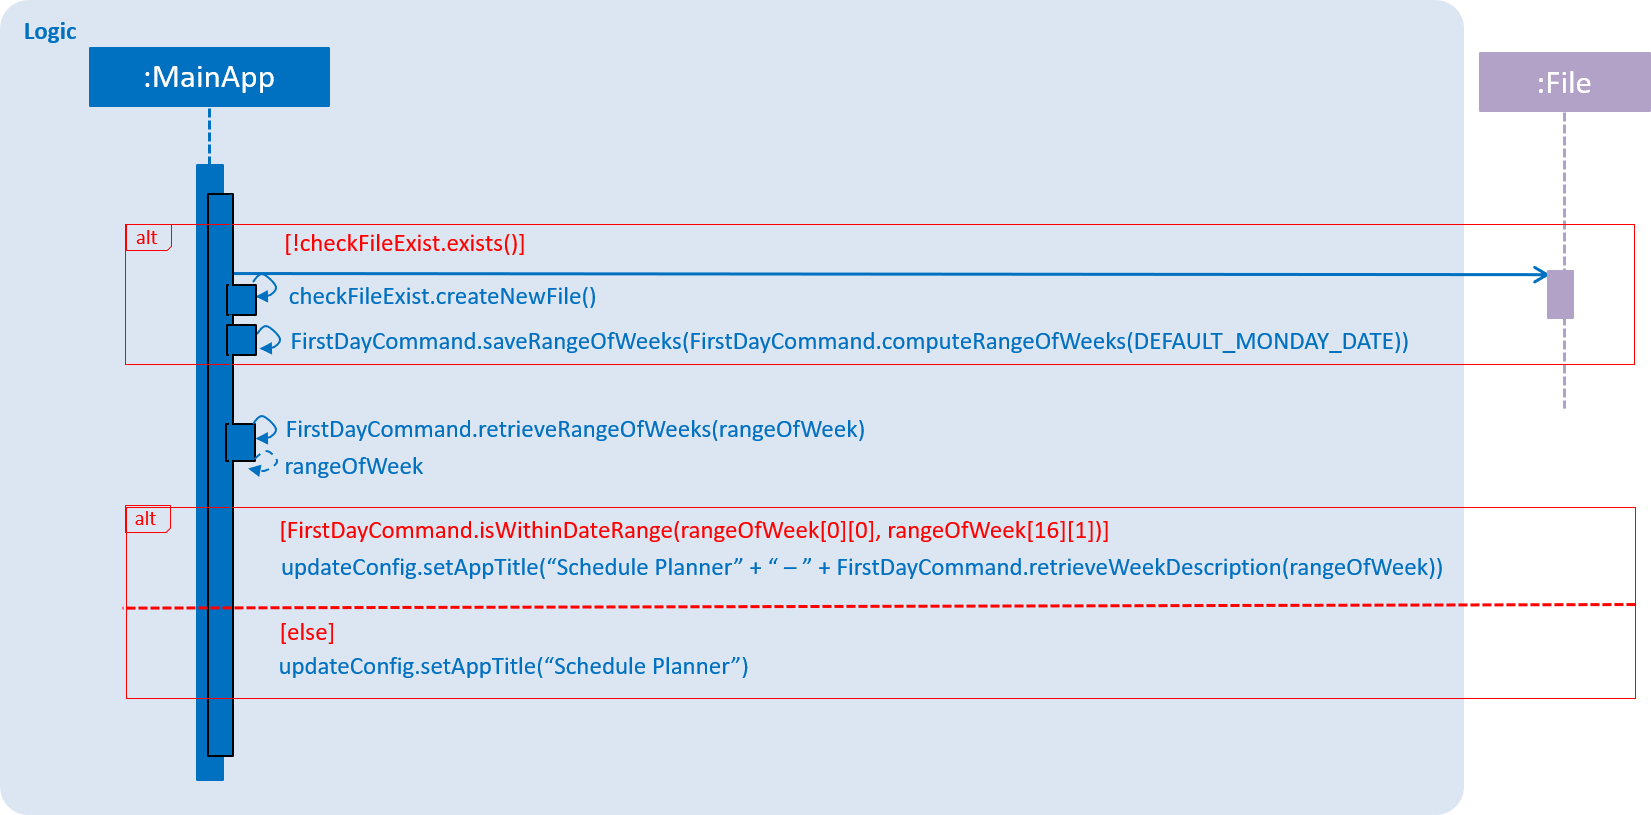
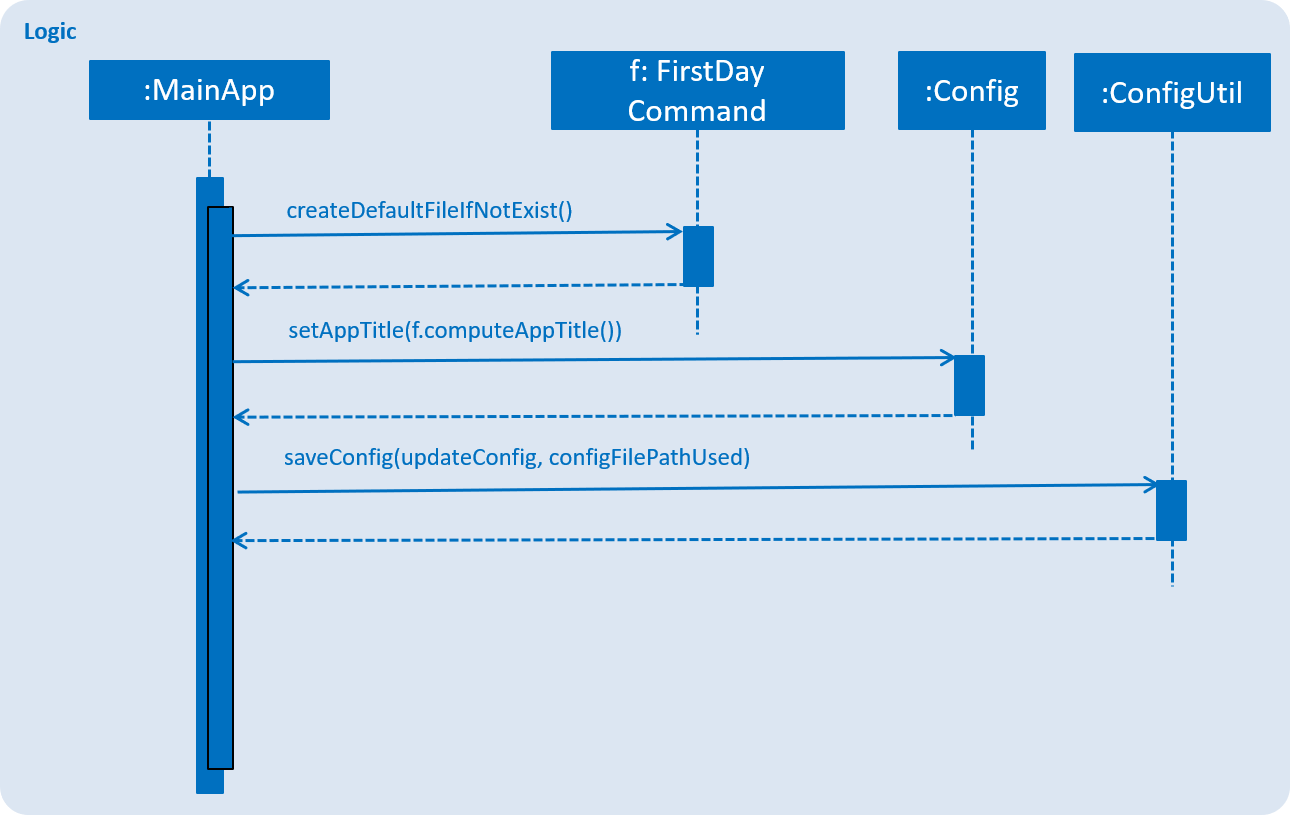
Rebuild pages at 71877509cb2c0853b336152cfc5f9d35883b7db3

Changed region(s): [[0.062, 0.0, 1.0, 1.0], [0.0, 0.0307, 0.2791, 0.1534]]

diff --git a/DeveloperGuide.html b/DeveloperGuide.html
@@ -955,7 +955,7 @@ from the current date till the closest Sunday.</p>
 <div class="ulist">
 <ul>
 <li>
-<p><code>Model#updateFilteredTaskList()</code> takes in a predicate parameter and updates the model
+<p><code>Model#updateFilteredTaskList()</code>&#8201;&#8212;&#8201;Takes in a predicate parameter and updates the model
 according to the predicate.</p>
 </li>
 </ul>
@@ -982,8 +982,9 @@ Given below is an example usage scenario and how <code>listweek</code> mechanism
 <p>Step 1. The user entered the command <code>listweek</code>.</p>
 </div>
 <div class="paragraph">
-<p>Step 2. <code>ListWeekCommand#appendDateList(datelist, numDaysTillSunday(dateName))</code> will generate the <code>dateList</code> in
-<code>ddmmyy</code> format after retrieving the result from <code>numDaysTillSunday()</code> method.</p>
+<p>Step 2. <code>ListWeekCommand#appendDateList(datelist, numDaysTillSunday(dateName))</code> will generate the <code>dateList</code>, which
+is a <code>list</code> of dates in <code>ddmmyy</code> format after retrieving the result from <code>numDaysTillSunday()</code> method.
+<code>numDaysTillSunday()</code> method itself will compute the number of days from current date till Sunday based on <code>dateName</code>.</p>
 </div>
 <div class="paragraph">
 <p>Step 3. <code>model.updateFilteredTaskList()</code> will update the task list with <code>DateWeekSamePredicate</code>
@@ -999,6 +1000,7 @@ as the parameter. <code>DateWeekSamePredicate</code> itself would take <code>dat
 <div class="content">
 <img src="images/ListWeekCommand_DG_SequenceDiagram.png" alt="ListWeekCommand DG SequenceDiagram" width="800">
 </div>
+<div class="title">Figure 10. Sequence Diagram of ListWeek Command</div>
 </div>
 </div>
 <div class="sect3">
@@ -1021,7 +1023,8 @@ as the parameter. <code>DateWeekSamePredicate</code> itself would take <code>dat
 </div>
 </li>
 <li>
-<p><strong>Alternative 2:</strong> Allow the commands to receive argument for which date(s) to filter.</p>
+<p><strong>Alternative 2:</strong> Allow the commands to receive argument for which date(s) to filter.
+E.g listday 130818 to view all tasks for 13 August 2018.</p>
 <div class="ulist">
 <ul>
 <li>
@@ -1041,12 +1044,13 @@ as the parameter. <code>DateWeekSamePredicate</code> itself would take <code>dat
 <div class="sect2">
 <h3 id="generate-academic-calendar-weeks"><a class="link" href="#generate-academic-calendar-weeks">4.6. Generate academic calendar weeks</a></h3>
 <div class="paragraph">
-<p>In order to enable users to better monitor their tasks in the schedule planner, we added <code>firstday</code> command.</p>
+<p>In order to enable users to better monitor their tasks in the schedule planner by knowing what is the current
+academic week, we added <code>firstday</code> command.</p>
 </div>
 <div class="paragraph">
 <p>The <code>firstday</code> command will generate the weeks according to the NUS academic calendar, and will append the week
-number to the application title  whenever the user launches the application to allow user to know the current
-academic week.</p>
+number to the application title if the user launches the application within the academic calendar dates.
+This allows the user to know the current academic week.</p>
 </div>
 <div class="sect3">
 <h4 id="current-implementation-3"><a class="link" href="#current-implementation-3">4.6.1. Current Implementation</a></h4>
@@ -1060,24 +1064,31 @@ academic week.</p>
 <code>firstDayOfSem</code> and <code>lastDayOfSem</code> and return true or false.</p>
 </li>
 <li>
-<p><code>FirstDayCommand#retrieveWeekDescription(rangeOfWeek)</code>&#8201;&#8212;&#8201;Return the description of a particular week</p>
+<p><code>FirstDayCommand#retrieveWeekDescription(rangeOfWeek)</code>&#8201;&#8212;&#8201;It return the description of a particular week</p>
 </li>
 <li>
-<p><code>FirstDayCommand#saveRangeOfWeeks(rangeOfWeek)</code>&#8201;&#8212;&#8201;Save the academic calendar weeks data into <code>rangeOfWeek.xml</code></p>
+<p><code>FirstDayCommand#saveRangeOfWeeks(rangeOfWeek)</code>&#8201;&#8212;&#8201;It save the academic calendar weeks data into <code>rangeofweek.xml</code></p>
 </li>
 <li>
-<p><code>FirstDayCommand#retrieveRangeOfWeeks(storeRangeOfWeeks)</code>&#8201;&#8212;&#8201;Retrieved the saved academic calendar weeks data from
-<code>rangeOfWeek.xml</code></p>
+<p><code>FirstDayCommand#retrieveRangeOfWeeks(storeRangeOfWeeks)</code>&#8201;&#8212;&#8201;It retrieves the saved academic calendar weeks data from
+<code>rangeofweek.xml</code></p>
 </li>
 <li>
-<p><code>FirstDayCommand#computeRangeOfWeek(firstDay)</code>&#8201;&#8212;&#8201;Generate the academic calendar weeks data based on the <code>firstDay</code>
+<p><code>FirstDayCommand#computeRangeOfWeek(firstDay)</code>&#8201;&#8212;&#8201;It generate the academic calendar weeks data based on the <code>firstDay</code>
 parameter.</p>
 </li>
 <li>
-<p><code>FirstDayCommand#addDescription</code>&#8201;&#8212;&#8201;Append description for each academic calendar weeks.</p>
+<p><code>FirstDayCommand#addDescription</code>&#8201;&#8212;&#8201;It appends description for each academic calendar weeks.</p>
 </li>
 <li>
-<p><code>FirstDayCommand#isMonday(inputDate)</code>&#8201;&#8212;&#8201;Check if inputDate is Monday and return true or false.</p>
+<p><code>FirstDayCommand#isMonday(inputDate)</code>&#8201;&#8212;&#8201;It checks if inputDate is Monday and return true or false.</p>
+</li>
+<li>
+<p><code>FirstDayCommand#computeAppTitle()</code>&#8201;&#8212;&#8201;It computes the corresponding application title after checking if current
+system date is within academic calendar dates.</p>
+</li>
+<li>
+<p><code>FirstDayCommand#createDefaultFileIfNotExist()</code>&#8201;&#8212;&#8201;It creates the default <code>rangeofweek.xml</code> if it does not exist.</p>
 </li>
 </ul>
 </div>
@@ -1092,8 +1103,9 @@ parameter.</p>
 remaining argument into <code>trimmedArgs</code>.</p>
 </div>
 <div class="paragraph">
-<p>Step 3. Methods <code>onlyOneSetArgument</code>, <code>Date.isValidDate</code> and <code>isMonday</code> are to be used to check if <code>trimmedArgs</code> is
-valid.</p>
+<p>Step 3. Methods <code>onlyOneSetArgument(trimmedArgs)</code>, <code>Date.isValidDate(trimmedArgs)</code> and <code>isMonday(trimmedArgs)</code> are used
+ in sequence to check if
+<code>trimmedArgs</code> is valid.</p>
 </div>
 <div class="admonitionblock note">
 <table>
@@ -1147,14 +1159,22 @@ weeks, the <code>UI</code> would display the corresponding week description to t
 </div>
 </div>
 <div class="paragraph">
-<p>Step 9. When user launch the application, <code>MainApp</code> will check if <code>rangeOfWeek.xml</code> exists. Should it be the first
-time user launch the application or if user deleted the file, it will create a default file that would not affect the
- user experiences.</p>
+<p>Step 9. When user launch the application,<code>MainApp</code> will create a <code>FirstDayCommand</code> object named <code>fdc</code> to utilise the
+method <code>FirstDayCommand#createDefaultFileIfNotExist</code>. The purpose is to check if <code>rangeOfWeek.xml</code> exists. Should it be the
+first time user launch the application or if user deleted the file, it will create a default file that would not
+affect the user experiences.</p>
 </div>
 <div class="paragraph">
-<p>If the file exist, <code>FirstDayCommand#retrieveRangeOfWeeks</code> will be called to retrieve the academic
- calendar weeks data from <code>rangeOfWeek.xml</code>. <code>FirstDayCommand#isWithinDateRange</code> would then be called to check if
- current system date lies within the academic calendar weeks and update the application title correspondly if necessary.</p>
+<p>Step 10. <code>MainApp</code> will create a <code>Config</code> object named as <code>updateConfig</code> and then calls the method <code>updateConfig.setAppTitle(fdc.computeAppTitle())</code>. <code>fdc.computeAppTitle()</code> would generate the corresponding application title by
+checking the current system date and the saved academic calendar weeks data. It would then return the result into
+<code>updateConfig.setAppTitle()</code> to update the application title.</p>
+</div>
+<div class="paragraph">
+<p><code>MainApp</code> then calls <code>ConfigUtil#saveConfig(updateConfig, configFilePathUsed)</code> to save the updated configuration into
+ the path where <code>config.json</code> is.</p>
+</div>
+<div class="paragraph">
+<p>Step 11. <code>MainApp</code> would then retrieve the application title from <code>config.json</code> and display on the <code>UI</code>.</p>
 </div>
 <div class="imageblock">
 <div class="content">
@@ -1181,11 +1201,13 @@ not exist.
 <div class="content">
 <img src="images/FirstDayCommand_DG_SequenceDiagram.png" alt="FirstDayCommand DG SequenceDiagram" width="800">
 </div>
+<div class="title">Figure 11. Sequence diagram of FirstDay Command</div>
 </div>
 <div class="imageblock">
 <div class="content">
 <img src="images/LaunchMainApp_DG_SequenceDiagram.png" alt="LaunchMainApp DG SequenceDiagram" width="800">
 </div>
+<div class="title">Figure 12. Sequence diagram of launching MainApp</div>
 </div>
 </div>
 <div class="sect3">
@@ -1386,7 +1408,7 @@ Alternatively, you can download the AsciiDoc plugin for IntelliJ, which allows y
 <div class="content">
 <img src="images/chrome_save_as_pdf.png" alt="chrome save as pdf" width="300">
 </div>
-<div class="title">Figure 10. Saving documentation as PDF files in Chrome</div>
+<div class="title">Figure 13. Saving documentation as PDF files in Chrome</div>
 </div>
 </div>
 <div class="sect2">
@@ -3298,4 +3320,4 @@ Expected: Similar to previous.</p>
 </div>
 </div>
 </div>
-</div></div><div id="footer"><div class="container"><div id="footer-text">Last updated 2018-10-31 04:39:27 UTC</div></div></div></body></html>
+</div></div><div id="footer"><div class="container"><div id="footer-text">Last updated 2018-10-31 10:34:53 UTC</div></div></div></body></html>

diff --git a/HelpWindow.html b/HelpWindow.html
@@ -918,4 +918,4 @@ There is no need to save manually.</p>
 <strong>A</strong>: Install the app in the other computer and overwrite the empty data file it creates with the file that contains the data of your previous Schedule planner folder.</p>
 </div>
 </div>
-</div></div><div id="footer"><div class="container"><div id="footer-text">Last updated 2018-10-31 04:39:27 UTC</div></div></div></body></html>
+</div></div><div id="footer"><div class="container"><div id="footer-text">Last updated 2018-10-31 10:34:53 UTC</div></div></div></body></html>

diff --git a/UserGuide.html b/UserGuide.html
@@ -918,4 +918,4 @@ There is no need to save manually.</p>
 <strong>A</strong>: Install the app in the other computer and overwrite the empty data file it creates with the file that contains the data of your previous Schedule planner folder.</p>
 </div>
 </div>
-</div></div><div id="footer"><div class="container"><div id="footer-text">Last updated 2018-10-31 04:39:27 UTC</div></div></div></body></html>
+</div></div><div id="footer"><div class="container"><div id="footer-text">Last updated 2018-10-31 10:34:53 UTC</div></div></div></body></html>

diff --git a/team/crimsonang.html b/team/crimsonang.html
@@ -779,4 +779,4 @@ pointing to the latest state in the <code>schedulePlannerStateList</code>, all s
 <p><em>{Optionally, you may include other projects in your portfolio.}</em></p>
 </div>
 </div>
-</div></div><div id="footer"><div class="container"><div id="footer-text">Last updated 2018-10-31 04:39:27 UTC</div></div></div></body></html>
+</div></div><div id="footer"><div class="container"><div id="footer-text">Last updated 2018-10-31 10:34:53 UTC</div></div></div></body></html>

diff --git a/team/hotarumin.html b/team/hotarumin.html
@@ -779,4 +779,4 @@ pointing to the latest state in the <code>schedulePlannerStateList</code>, all s
 <p><em>{Optionally, you may include other projects in your portfolio.}</em></p>
 </div>
 </div>
-</div></div><div id="footer"><div class="container"><div id="footer-text">Last updated 2018-10-31 04:39:27 UTC</div></div></div></body></html>
+</div></div><div id="footer"><div class="container"><div id="footer-text">Last updated 2018-10-31 10:34:53 UTC</div></div></div></body></html>

diff --git a/team/park-sang-jun.html b/team/park-sang-jun.html
@@ -779,4 +779,4 @@ pointing to the latest state in the <code>schedulePlannerStateList</code>, all s
 <p><em>{Optionally, you may include other projects in your portfolio.}</em></p>
 </div>
 </div>
-</div></div><div id="footer"><div class="container"><div id="footer-text">Last updated 2018-10-31 04:39:27 UTC</div></div></div></body></html>
+</div></div><div id="footer"><div class="container"><div id="footer-text">Last updated 2018-10-31 10:34:53 UTC</div></div></div></body></html>

diff --git a/team/thaddeuslzy.html b/team/thaddeuslzy.html
@@ -779,4 +779,4 @@ pointing to the latest state in the <code>schedulePlannerStateList</code>, all s
 <p><em>{Optionally, you may include other projects in your portfolio.}</em></p>
 </div>
 </div>
-</div></div><div id="footer"><div class="container"><div id="footer-text">Last updated 2018-10-31 04:39:27 UTC</div></div></div></body></html>
+</div></div><div id="footer"><div class="container"><div id="footer-text">Last updated 2018-10-31 10:34:53 UTC</div></div></div></body></html>

diff --git a/team/woodnsuns.html b/team/woodnsuns.html
@@ -779,4 +779,4 @@ pointing to the latest state in the <code>schedulePlannerStateList</code>, all s
 <p><em>{Optionally, you may include other projects in your portfolio.}</em></p>
 </div>
 </div>
-</div></div><div id="footer"><div class="container"><div id="footer-text">Last updated 2018-10-31 04:39:27 UTC</div></div></div></body></html>
+</div></div><div id="footer"><div class="container"><div id="footer-text">Last updated 2018-10-31 10:34:53 UTC</div></div></div></body></html>

diff --git a/ContactUs.html b/ContactUs.html
@@ -9,4 +9,4 @@
 <p><strong>Contributing</strong> : We welcome pull requests. Follow the process described <a href="https://github.com/oss-generic/process">here</a></p>
 </li>
 </ul>
-</div></div><div id="footer"><div class="container"><div id="footer-text">Last updated 2018-10-31 04:39:27 UTC</div></div></div></body></html>
+</div></div><div id="footer"><div class="container"><div id="footer-text">Last updated 2018-10-31 10:34:53 UTC</div></div></div></body></html>

diff --git a/UsingGradle.html b/UsingGradle.html
@@ -255,4 +255,4 @@ See <code>build.gradle</code> &#8594; <code>allprojects</code> &#8594; <code>dep
 </ul>
 </div>
 </div>
-</div></div><div id="footer"><div class="container"><div id="footer-text">Last updated 2018-10-31 04:39:27 UTC</div></div></div></body></html>
+</div></div><div id="footer"><div class="container"><div id="footer-text">Last updated 2018-10-31 10:34:53 UTC</div></div></div></body></html>

diff --git a/UsingNetlify.html b/UsingNetlify.html
@@ -123,4 +123,4 @@ The publish directory is the directory in which the built HTML documentation res
 </ol>
 </div>
 </div>
-</div></div><div id="footer"><div class="container"><div id="footer-text">Last updated 2018-10-31 04:39:27 UTC</div></div></div></body></html>
+</div></div><div id="footer"><div class="container"><div id="footer-text">Last updated 2018-10-31 10:34:53 UTC</div></div></div></body></html>

diff --git a/UsingCoveralls.html b/UsingCoveralls.html
@@ -96,4 +96,4 @@ If you have not set up Travis CI, see <a href="UsingTravis.html">UsingTravis.ado
 </ol>
 </div>
 </div>
-</div></div><div id="footer"><div class="container"><div id="footer-text">Last updated 2018-10-31 04:39:27 UTC</div></div></div></body></html>
+</div></div><div id="footer"><div class="container"><div id="footer-text">Last updated 2018-10-31 10:34:53 UTC</div></div></div></body></html>
